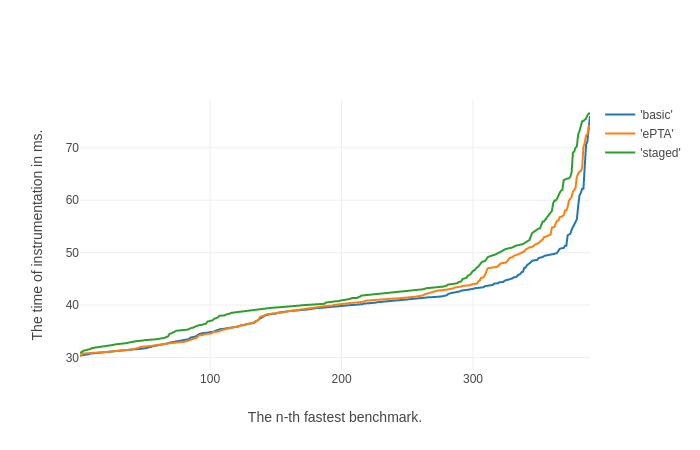
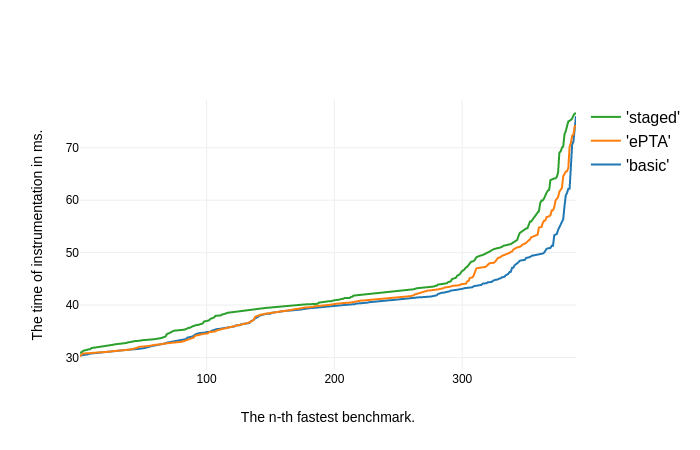
Change color of chart descriptions

diff --git a/scripts/instr_times.py b/scripts/instr_times.py
@@ -61,11 +61,30 @@ trace3 = go.Scatter(
 data = [trace1, trace2, trace3]
 layout = dict(
    xaxis=dict(
-        title='The n-th fastest benchmark.'
+        title='The n-th fastest benchmark.',
+        titlefont=dict(
+            color='black'
+        ),
+        tickfont=dict(
+            color='black'
+        )
    ),
    yaxis=dict(
-        title='The time of instrumentation in ms.'
-   )
+        title='The time of instrumentation in ms.',
+        titlefont=dict(
+            color='black'
+        ),
+        tickfont=dict(
+            color='black'
+        )
+   ),
+   legend=dict(
+        traceorder='reversed',
+        font=dict(
+            size=16,
+			color='black'
+        )
+	)
 )
 fig = dict(data=data, layout=layout)
 plotly.offline.plot(fig, filename='instr_times')

diff --git a/scripts/bar_chart.py b/scripts/bar_chart.py
@@ -26,7 +26,22 @@ afterStaged = staged['afterI'].sum()
 pStaged = (afterStaged - beforeStaged) / (beforeStaged/100)
 
 layout = go.Layout(
-    title='Increase of the size of the code in %'
+	xaxis=dict(
+        titlefont=dict(
+            color='black'
+        ),
+        tickfont=dict(
+            color='black'
+        )
+   ),
+   yaxis=dict(
+        titlefont=dict(
+            color='black'
+        ),
+        tickfont=dict(
+            color='black'
+        )
+   )
 )
 
 data = [go.Bar(
@@ -34,4 +49,5 @@ data = [go.Bar(
             y=[pBasic, pEpta, pStaged],
     )]
 
-plotly.offline.plot(data, filename='basic_bar')
+fig = go.Figure(data=data, layout=layout)
+plotly.offline.plot(fig, filename='basic_bar')
